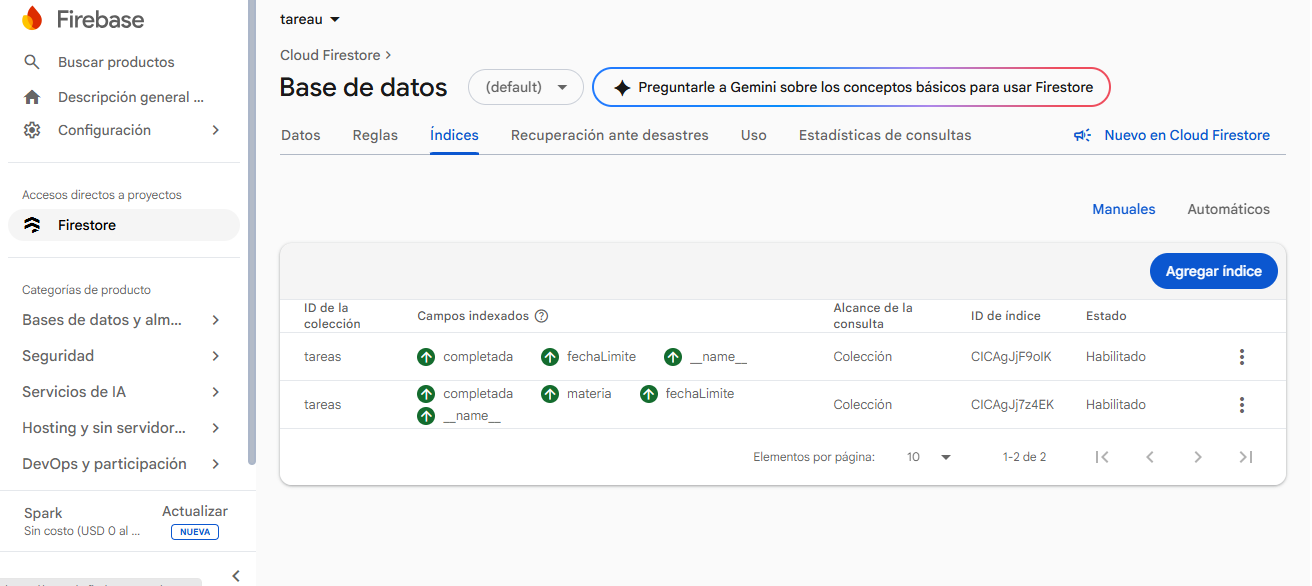
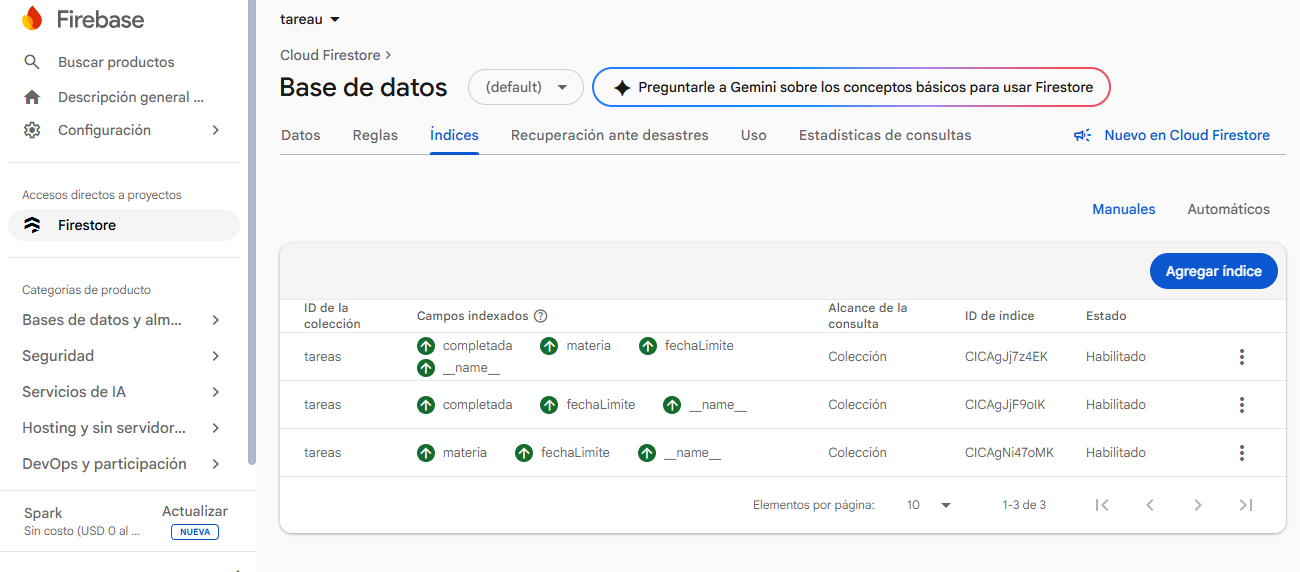
Docs: agrega documentacion completa, evidencias y README

diff --git a/lib/main.dart b/lib/main.dart
@@ -10,7 +10,6 @@ import 'firebase_options.dart';
 Future<void> main() async {
   WidgetsFlutterBinding.ensureInitialized();
   await Firebase.initializeApp(options: DefaultFirebaseOptions.currentPlatform);
-  
   runApp(const TareaUApp());
 }
 

diff --git a/docs/03-plantilla-pruebas.md b/docs/03-plantilla-pruebas.md
@@ -1,0 +1,26 @@
+# Plantilla y Resultados de Pruebas — TareaU
+
+## 1. Resumen de Ejecución
+* **Total de casos ejecutados:** 11 casos (3 automatizados + 8 funcionales/integración)
+* **Casos aprobados:** 11 / 11 (**100 % aprobado** tras corregir las incidencias)
+
+## 2. Pruebas Automatizadas y Revisión Estática
+
+| ID | Módulo | Descripción | Datos de entrada | Resultado esperado | Resultado obtenido | Evidencia |
+| :--- | :--- | :--- | :--- | :--- | :--- | :--- |
+| **CP-01** | Código | Análisis estático del proyecto sin alertas | Ejecución de `flutter analyze` en el proyecto | 0 errores y 0 advertencias de código o imports. | `No issues found!` | `evidencias/pruebas-y-analisis/02-flutter-analyze-limpio.png` |
+| **CP-02** | Modelo | Pruebas unitarias del modelo `Tarea` (`fromMap`, `toMap`, vencidas) | Ejecución de `flutter test test/unit/tarea_test.dart` | Convierte mapas/timestamps correctamente y detecta tareas vencidas. | `All tests passed!` | `evidencias/pruebas-y-analisis/02-flutter-test.png` |
+| **CP-03** | Interfaz | Pruebas de widgets de `ListaTareasPage` (lista y estado vacío) | Ejecución de `flutter test test/widget/lista_tareas_test.dart` | Renderiza tarjetas con prioridad o muestra vista vacía según datos. | `All tests passed!` | `evidencias/pruebas-y-analisis/03-regresion-verde.png` |
+
+## 3. Pruebas Funcionales y de Integración (Emulador + Firebase)
+
+| ID | Módulo | Descripción | Datos de entrada | Resultado esperado | Resultado obtenido | Evidencia |
+| :--- | :--- | :--- | :--- | :--- | :--- | :--- |
+| **CP-04** | Datos | Carga inicial de tareas pendientes desde Firestore | Colección `tareas` con 8 documentos, `Pendientes = true` | Mostrar las tareas pendientes ordenadas por fecha límite. | Cargaron los registros correctamente desde la colección `tareas`. | `evidencias/firebase/01-coleccion-tareas.png`<br>`evidencias/capturas-aplicacion/01-lista-principal.png` |
+| **CP-05** | Datos | Filtrado combinado por materia y estado pendiente (activo/apagado) | Dropdown `materia = "Móviles"`, switch `Pendientes` en `true` y `false` | Filtrar por materia en ambos estados sin errores de consulta compuesta. | Funcionó en ambos estados tras habilitar los 3 índices compuestos en Firebase. | `evidencias/firebase/02-indice-compuesto.png`<br>`evidencias/capturas-aplicacion/02-filtro-y-vacio.png` |
+| **CP-06** | Estados | Visualización de estado vacío al filtrar sin coincidencias | Materia sin tareas pendientes + `Pendientes = true` | Mostrar aviso claro cuando una combinación no tiene tareas. | Se mostró el estado vacío sin errores en pantalla. | `evidencias/capturas-aplicacion/02-filtro-y-vacio.png` |
+| **CP-07** | Validación | Validación de título menor a 3 caracteres (`"Ab"`) | `titulo = "Ab"` (2 caracteres), `materia = "Redes"` | Bloquear guardado y mostrar mensaje de error en el campo. | Mostró `"Escribe al menos 3 caracteres."` y no envió datos. | `evidencias/capturas-aplicacion/03-validacion-titulo.png` |
+| **CP-08** | Validación | Validación de selección obligatoria de materia al editar | `titulo = "Proyecto final"`, `materia = null` | Impedir guardar si el selector de materia no tiene valor válido. | El formulario validó correctamente el campo `materia`. | `evidencias/capturas-aplicacion/03-validacion-titulo.png` |
+| **CP-09** | Datos | Edición de tarea con datos válidos y notificación SnackBar | `titulo = "Entrega laboratorio"`, `prioridad = "Alta"` | Guardar cambios en Firestore y mostrar `"Tarea actualizada."`. | Se actualizó en la app y apareció el aviso inferior. | `evidencias/capturas-aplicacion/04-tarea-actualizada.png` |
+| **CP-10** | Persistencia | Sincronización en tiempo real en Firebase Console | Documento editado en `CP-09` consultado en Firestore | Reflejar en la nube los cambios guardados desde el emulador. | El documento se actualizó al instante en Firestore. | `evidencias/firebase/03-tarea-actualizada-firestore.png` |
+| **CP-11** | Estados | Intento de guardado sin conexión a internet (Modo avión) | Emulador en **Modo avión** + pulsar **Guardar cambios** | Avisar fallo de red o tiempo agotado sin cerrar la app. | Mostró la alerta de error de conexión correctamente. | `evidencias/capturas-aplicacion/05-error-conexion.png` |

diff --git a/docs/04-registro-incidencias.md b/docs/04-registro-incidencias.md
@@ -1,0 +1,35 @@
+# Registro de Incidencias — TareaU
+
+## INC-001: Faltaba validar el campo de materia al editar una tarea
+* **Severidad:** Media
+* **Prioridad:** Alta
+* **Origen:** Validación de UI / Formulario (`lib/ui/editar_tarea_page.dart`)
+* **Estado:** Corregida y re-probada
+* **Causa:** El formulario validaba la longitud del título (`>= 3` caracteres), pero el `DropdownButtonFormField` de materia no tenía un `validator` que asegurara que se enviara una materia válida.
+* **Corrección:** Se agregó la función `validator` directamente en el campo desplegable de materia dentro de `EditarTareaPage` para exigir una opción válida antes de guardar.
+* **Re-prueba:** Se ejecutó `flutter analyze` sin errores y se volvió a probar el formulario en el emulador (`evidencias/capturas-aplicacion/03-validacion-titulo.png`).
+
+---
+
+## INC-002: Error al listar y filtrar tareas por falta de índices compuestos en Firestore
+* **Severidad:** Alta
+* **Prioridad:** Crítica
+* **Origen:** Base de datos en la nube / Consultas Firestore (`lib/data/tarea_repository.dart`)
+* **Estado:** Corregida y re-probada
+* **Causa:** Cloud Firestore exige índices compuestos cuando una consulta combina filtros de igualdad (`where`) con un ordenamiento (`orderBy`), devolviendo `FAILED_PRECONDITION` al abrir la lista, filtrar por materia con pendientes activos o filtrar por materia con el switch de pendientes apagado.
+* **Corrección:** Se crearon y habilitaron tres índices compuestos en Firebase Console para la colección `tareas`:
+  1. `completada` (Ascendente) + `fechaLimite` (Ascendente)
+  2. `completada` (Ascendente) + `materia` (Ascendente) + `fechaLimite` (Ascendente)
+  3. `materia` (Ascendente) + `fechaLimite` (Ascendente)
+* **Re-prueba:** Tras el error inicial registrado en `evidencias/capturas-aplicacion/01-error-indice-firestore.png`, se habilitaron los índices (`evidencias/firebase/02-indice-compuesto.png`) y la app cargó las tareas filtradas tanto con el switch activo como apagado (`evidencias/capturas-aplicacion/02-filtro-y-vacio.png`).
+
+---
+
+## INC-003: Duplicación de tareas iniciales al reiniciar la aplicación
+* **Severidad:** Baja
+* **Prioridad:** Media
+* **Origen:** Configuración de inicialización / Datos de prueba (`lib/main.dart`)
+* **Estado:** Corregida y re-probada
+* **Causa:** La función `sembrarDatos()` utiliza `.add()` generando IDs nuevos cada vez que arranca la aplicación o se hace *Hot Restart*, por lo que al dejarla activa en `main()` se duplicaban los 8 registros base en Firestore.
+* **Corrección:** Se ejecutó la carga inicial una sola vez para poblar la colección `tareas`, se limpiaron los documentos repetidos en Firebase Console y se eliminó tanto `await sembrarDatos();` como su importación de `lib/main.dart`.
+* **Re-prueba:** Se reinició la aplicación varias veces y se confirmó en Firebase Console que los documentos no se vuelven a duplicar (`evidencias/firebase/01-coleccion-tareas.png`).

diff --git a/docs/05-reflexion-final.md b/docs/05-reflexion-final.md
@@ -1,0 +1,17 @@
+# Reflexión Final — Proyecto TareaU
+
+**¿Qué prueba habría evitado mi error más costoso?**
+
+El error que más tiempo me quitó fue que la app dejara de cargar las tareas y los filtros por materia al faltarle los índices compuestos en Firestore (`INC-002`). Si hubiera hecho desde el inicio una prueba rápida de integración conectada a la base de datos real (o al emulador local de Firebase) justo cuando escribí la consulta con `where` y `orderBy`, me habría saltado el error `FAILED_PRECONDITION` al instante, sin tener que esperar a probar toda la pantalla en el emulador. Correr esa prueba básica cada vez que tocaba las consultas me habría ahorrado estar revisando el código de la interfaz buscando un fallo que en realidad estaba en la configuración de Firebase.
+
+## Qué aprendí con esta práctica
+Al conectar la aplicación con Cloud Firestore me di cuenta de que aunque el código compile bien en Flutter, al trabajar con consultas reales en la nube aparecen detalles como los índices compuestos de Firebase (`INC-002`), que son obligatorios cuando se filtran datos y se ordenan al mismo tiempo.
+
+También vi lo útil que es tener pruebas unitarias y de widgets antes de probar en el emulador, porque permiten verificar rápido si los modelos y las pantallas responden bien sin tener que estar metiendo datos a mano cada vez que se cambia algo.
+
+## Sobre el orden del repositorio
+Mantener todo separado por carpetas (`test/`, `evidencias/`, `docs/`) dentro de la rama `semana16-integracion` ayuda bastante a no perderse entre el código de la app, las capturas de pantalla y los reportes de errores que se fueron corrigiendo.
+
+## Qué se podría mejorar después
+* Agregar pruebas automáticas de integración usando los emuladores locales de Firebase para no depender de tener internet al probar.
+* Mejorar el manejo visual cuando se pierde la conexión para avisar desde la pantalla principal que la app está trabajando sin red.

diff --git a/README.md b/README.md
@@ -1,17 +1,27 @@
-# tareau
+# TareaU
 
-A new Flutter project.
+Aplicación móvil hecha en **Flutter** y conectada a **Firebase Cloud Firestore** para organizar y dar seguimiento a tareas de la universidad.
 
-## Getting Started
+## Demo en video
+* **Video de funcionamiento completo:** [Ver demostración en YouTube](https://youtu.be/TU_ENLACE_AQUI)
 
-This project is a starting point for a Flutter application.
+## Estructura del proyecto (`semana16-integracion`)
+* `lib/` — Código fuente de la aplicación (`data/`, `models/`, `state/`, `ui/`).
+* `test/` — Pruebas unitarias (`unit/`) y de widgets (`widget/`).
+* `evidencias/` — Capturas de respaldo organizadas en:
+  * `capturas-aplicacion/` — Flujos de la app en emulador y manejo de errores.
+  * `firebase/` — Colección `tareas`, índices compuestos y cambios sincronizados en Firestore.
+  * `pruebas-y-analisis/` — Resultados de `flutter analyze` y `flutter test`.
+* `docs/` — Documentación completa de integración y pruebas:
+  * [01 - Declaración de Alcance](docs/01-declaracion-alcance.md)
+  * [02 - Mapa de Flujos Críticos](docs/02-mapa-flujos-criticos.md)
+  * [03 - Plantilla y Resultados de Pruebas](docs/03-plantilla-pruebas.md)
+  * [04 - Registro de Incidencias](docs/04-registro-incidencias.md)
+  * [05 - Reflexión Final](docs/05-reflexion-final.md)
 
-A few resources to get you started if this is your first Flutter project:
-
-- [Learn Flutter](https://docs.flutter.dev/get-started/learn-flutter)
-- [Write your first Flutter app](https://docs.flutter.dev/get-started/codelab)
-- [Flutter learning resources](https://docs.flutter.dev/reference/learning-resources)
-
-For help getting started with Flutter development, view the
-[online documentation](https://docs.flutter.dev/), which offers tutorials,
-samples, guidance on mobile development, and a full API reference.
+## Comandos para ejecutar y verificar
+```bash
+flutter pub get
+flutter analyze
+flutter test
+flutter run

diff --git a/docs/02-mapa-flujos-criticos.md b/docs/02-mapa-flujos-criticos.md
@@ -1,0 +1,26 @@
+# Mapa de Flujos Críticos — TareaU
+
+## Flujos principales que se probaron
+
+| Flujo | Qué hace en la app | Por dónde pasa | Posible fallo |
+| :--- | :--- | :--- | :--- |
+| **1. Cargar tareas al abrir** | Muestra las tareas pendientes ordenadas por fecha límite. | `ListaTareasPage` → `TareaRepository` → Firestore | Si falta el índice en Firebase, no carga la lista y muestra aviso de error. |
+| **2. Filtrar por materia y estado** | Filtra las tareas según la materia elegida con o sin el switch de pendientes. | Dropdown de materias + Switch → Firestore | Requiere índices compuestos distintos según si el switch de pendientes está activo o apagado. |
+| **3. Editar y validar tarea** | Permite cambiar datos de una tarea revisando que sean válidos. | `ListaTareasPage` → `EditarTareaPage` → Firestore | Si no se valida bien el formulario, se pueden guardar datos incompletos. |
+| **4. Guardar sin internet** | Intenta actualizar una tarea cuando el teléfono está en modo avión. | `EditarTareaPage` (sin red) → Firestore | La app podría quedarse cargando indefinidamente si no maneja el tiempo de espera. |
+
+## Resumen del recorrido de los datos
+
+```mermaid
+flowchart TD
+    A[Pantalla Principal<br/>ListaTareasPage] -->|Consulta stream| B[TareaRepository]
+    B -->|Usa los 3 índices compuestos| C[(Cloud Firestore<br/>Colección: tareas)]
+    
+    A -->|Tocar una tarea| D[Pantalla de Edición<br/>EditarTareaPage]
+    D --> E{¿Formulario válido?<br/>Título ≥ 3 letras y materia}
+    
+    E -->|No| F[Muestra error en rojo<br/>No guarda en la nube]
+    E -->|Sí| G[Intenta actualizar en Firestore]
+    
+    G -->|Con internet| H[SnackBar: 'Tarea actualizada.']
+    G -->|Sin internet / Modo avión| I[Muestra aviso de error de conexión]

diff --git a/docs/01-declaracion-alcance.md b/docs/01-declaracion-alcance.md
@@ -1,0 +1,10 @@
+# Declaración de Alcance — Proyecto TareaU
+
+| Módulo / servicio | ¿Aplica? | Observación |
+| :--- | :---: | :--- |
+| Autenticación | ☐ | No se implementa inicio de sesión ni registro de usuarios en esta app. |
+| Base de datos (Firestore / Realtime DB) | ☑ | Sí aplica. Se usa Cloud Firestore (colección `tareas`) para listar, filtrar y actualizar tareas en tiempo real. |
+| Almacenamiento (Storage) | ☐ | No se suben archivos ni imágenes a Firebase Storage. |
+| Notificaciones push (FCM) | ☐ | No se utilizan notificaciones push en este proyecto. |
+| API REST externa | ☐ | Todos los datos se consumen directamente desde Cloud Firestore sin servicios REST externos. |
+| Otros (Analytics, Crashlytics, Remote Config...) | ☐ | No se configuraron servicios adicionales fuera de Cloud Firestore. |
